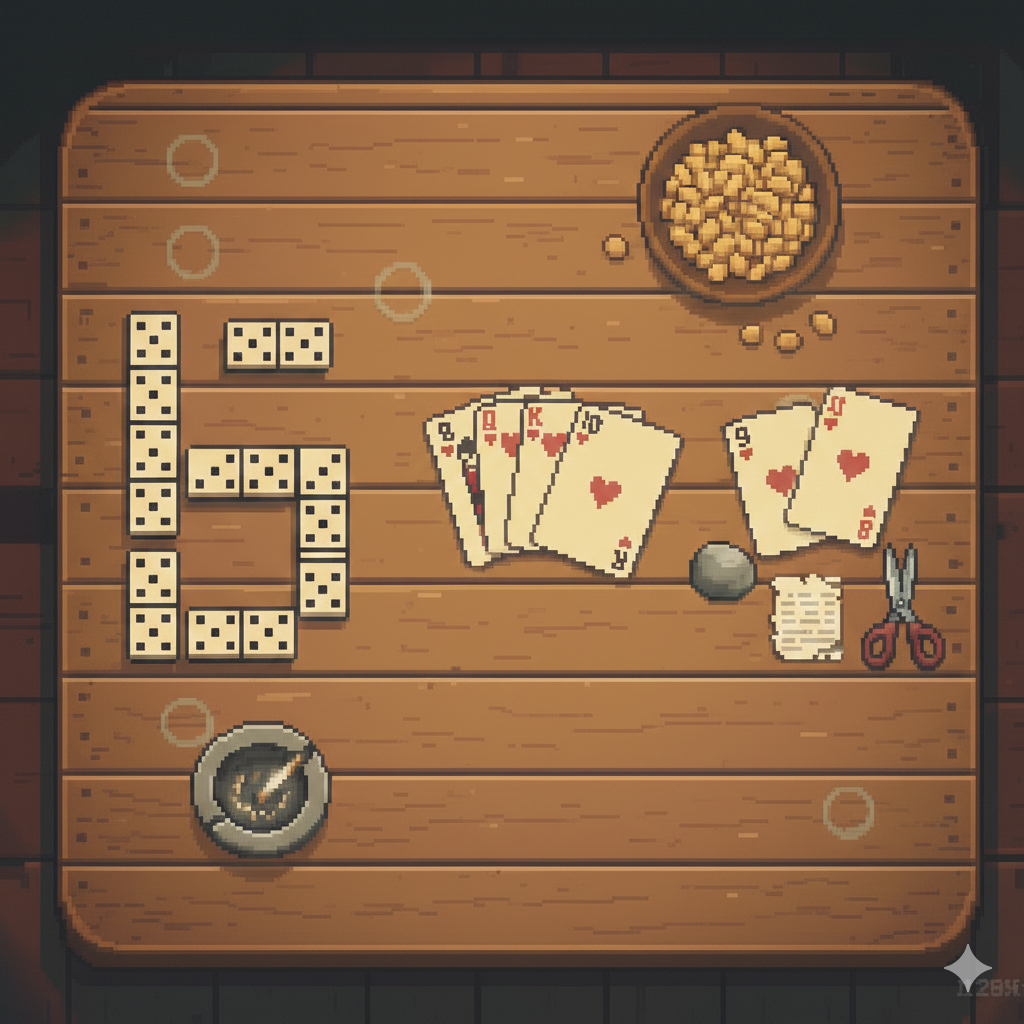
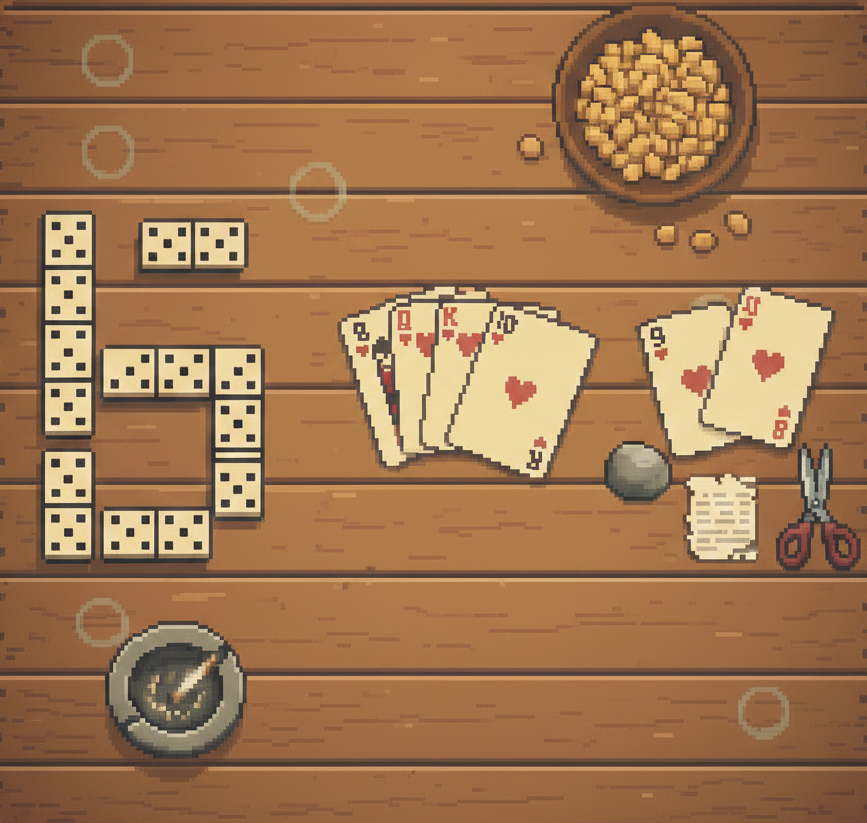
add polygons texture in menu scene

diff --git a/primitive.py b/primitive.py
@@ -1,3 +1,4 @@
+import pygame
 import numpy as np
 import math
 
@@ -10,7 +11,6 @@ class Primitive:
             self.surface.set_at((int(x), int(y)), color)
 
     def draw_line_bress(self, x0, y0, x1, y1, color=(255, 255, 255)):
-        # Flags para transformações
         step = abs(y1 - y0) > abs(x1 - x0)
         if step:
             x0, y0 = y0, x0
@@ -62,12 +62,18 @@ class Primitive:
         self.setPixel(xc - x, yc - y, color) # 8 Octante
 
     def draw_circunference_bress(self, xc, yc, radius, color=(255, 255, 255), color_fill=None, texture=None):
-        if color_fill is not None:
+        if color_fill is not None or texture is not None:
             points = []
-            for i in range(0, 360, 5): # Aproximação de 5 em 5 graus
+            for i in range(0, 360, 5):
                 rad = math.radians(i)
                 points.append((xc + radius * math.cos(rad), yc + radius * math.sin(rad)))
-            self.scanline_fill([(int(p[0]), int(p[1])) for p in points], color_fill)
+
+            if texture:
+                uvs = self._generate_uvs(points)
+                self.scaline_texture(points, uvs, texture)
+
+            elif color_fill:
+                self.scanline_fill([(int(p[0]), int(p[1])) for p in points], color_fill)
 
         x = 0
         y = radius
@@ -77,10 +83,10 @@ class Primitive:
 
         while (y > x):
             if (d < 0):
-                d+=2*x + 3
+                d += 2 * x + 3
             else:
-                d+=2*(x-y) + 5
-                y-=1
+                d += 2 * (x - y) + 5
+                y -= 1
             x+=1
             self._symmetry_circle(xc, yc, x, y, color)
 
@@ -91,57 +97,63 @@ class Primitive:
         self.setPixel(xc - x, yc - y, color)
 
     def draw_elipse(self, xc, yc, a, b, color=(255, 255, 255), color_fill=None, texture=None):
-        if color_fill is not None:
+        if color_fill is not None or texture is not None:
             points = []
             for i in range(0, 360, 5):
                 rad = math.radians(i)
                 points.append((xc + a * math.cos(rad), yc + b * math.sin(rad)))
-            self.scanline_fill([(int(p[0]), int(p[1])) for p in points], color_fill)
+            
+            if texture:
+                uvs = self._generate_uvs(points)
+                self.scaline_texture(points, uvs, texture)
+            
+            elif color_fill:
+                self.scanline_fill([(int(p[0]), int(p[1])) for p in points], color_fill)
 
         x = 0
         y = b
 
-        d1 = b*b - a*a*b + 0.25 * a*a
+        d1 = b * b - a * a * b + 0.25 * a * a
         self._ellipse_points(xc, yc, x, y, color)
 
         # Região 1
-        while (b*b * x) <= (a*a * y):
+        while (b * b * x) <= (a * a * y):
             if d1 < 0:
-                d1 += b*b * (2*x + 3)
+                d1 += b * b * (2 * x + 3)
                 x += 1
             else:
-                d1 += b*b * (2*x + 3) + a*a * (-2*y + 2)
+                d1 += b * b * (2 * x + 3) + a * a * (-2 * y + 2)
                 x += 1
                 y -= 1
             self._ellipse_points(xc, yc, x, y, color)
 
         # Região 2
-        d2 = (
-            b*b * (x + 0.5) * (x + 0.5) +
-            a*a * (y - 1) * (y - 1) -
-            a*a * b*b
-        )
+        d2 = (b * b * (x + 0.5) * (x + 0.5) + a * a * (y - 1) * (y - 1) - a * a * b * b)
 
         while y > 0:
             if d2 > 0:
-                d2 += a*a * (-2*y + 3)
+                d2 += a * a * (-2 * y + 3)
                 y -= 1
             else:
-                d2 += b*b * (2*x + 2) + a*a * (-2*y + 3)
+                d2 += b * b * (2 * x + 2) + a * a * (-2 * y + 3)
                 x += 1
                 y -= 1
             self._ellipse_points(xc, yc, x, y, color)
     
     def draw_rectangle(self, x, y, width, height, color=(255, 255, 255), color_fill=None, texture=None):
         points = [(x, y), (x + width, y), (x + width, y + height), (x, y + height)]
-        self.draw_polygon(points, color, color_fill)
+        self.draw_polygon(points, color, color_fill, texture)
 
     def draw_triangle(self, x0, y0, x1, y1, x2, y2, color=(255, 255, 255), color_fill=None, texture=None):
         points = [(x0, y0), (x1, y1), (x2, y2)]
-        self.draw_polygon(points, color, color_fill)
+        self.draw_polygon(points, color, color_fill, texture)
 
-    def draw_polygon(self, points, color=(255, 255, 255), color_fill=None, texture=None):
-        if color_fill is not None:
+    def draw_polygon(self, points, color=(255, 255, 255), color_fill=None, uvs=None, texture=None):
+        if texture is not None:
+            use_uvs = uvs if uvs is not None else self._generate_uvs(points)
+            self.scaline_texture(points, use_uvs, texture)
+
+        elif color_fill is not None:
             pts_int = [(int(p[0]), int(p[1])) for p in points]
             self.scanline_fill(pts_int, color_fill)
         
@@ -188,7 +200,8 @@ class Primitive:
                         self.setPixel(x, y, color_fill)
 
     def scaline_texture(self, points, uvs, texture):
-        tex_w, tex_h = texture.get_width(), texture.get_height()
+        tex = pygame.image.load(texture).convert()
+        tex_w, tex_h = tex.get_width(), tex.get_height()
         n = len(points)
 
         ys = [p[1] for p in points]
@@ -245,5 +258,17 @@ class Primitive:
                     ty = int(v * (tex_h - 1))
 
                     if 0 <= tx < tex_w and 0 <= ty < tex_h:
-                        cor = texture.get_at((tx, ty))
+                        cor = tex.get_at((tx, ty))
                         self.setPixel(x, y, cor)
+    
+    def _generate_uvs(self, points):
+        if not points: return []
+        xs = [p[0] for p in points]
+        ys = [p[1] for p in points]
+        x_min, x_max = min(xs), max(xs)
+        y_min, y_max = min(ys), max(ys)
+        
+        width = x_max - x_min if x_max != x_min else 1
+        height = y_max - y_min if y_max != y_min else 1
+        
+        return [((p[0] - x_min) / width, (p[1] - y_min) / height) for p in points]

diff --git a/menu.py b/menu.py
@@ -3,10 +3,11 @@ from primitive import Primitive
 from transform import Transform
 
 class Menu:
-    def __init__(self, surface, colors):
+    def __init__(self, surface, colors,  textures):
         self.surface = surface
         self.drawer = Primitive(self.surface)
         self.colors = colors
+        self.textures = textures
         self.selected_index = 0  
         self.options = ["Iniciar", "Sair"]
         self.button_width = 200
@@ -18,25 +19,29 @@ class Menu:
         self.scissors = [(-1, 5), (-10, 5), (-10, 15),(-1,20),(-10,20),(-10,40),(0,20),(10,40),(10,20),(1,20),(10,15),(10,5),(1,5),(0,20)]
         self.stone = [(10, -17), (20, 0), (10, 17), (-10, 17), (-20, 0), (-10, -17)]
 
+        self.uvs_stone = self.drawer._generate_uvs(self.stone)
+        self.uvs_paper = self.drawer._generate_uvs(self.paper)
+        self.uvs_scissors = self.drawer._generate_uvs(self.scissors)
+
     def draw(self):
         self.surface.fill(self.colors["black"])
         self.angle += 0.02
 
         background_shapes = [
             # Lado Esquerdo
-            (self.stone, (200, 200), self.colors["medium_gray"], 1),
-            (self.paper, (200, 550), self.colors["white"], -1),
+            (self.stone, (200, 200), None, 1, self.uvs_stone, self.textures["stone"]),
+            (self.paper, (200, 550), None, -1, self.uvs_paper, self.textures["paper"]),
             
             # Lado Direito
-            (self.scissors, (1080, 200), self.colors["red"], 1),
-            (self.stone, (1080, 550), self.colors["medium_gray"], -1),
+            (self.scissors, (1080, 200), self.colors["red"], 1, None, None),
+            (self.stone, (1080, 550), None, -1, self.uvs_stone, self.textures["stone"]),
             
             # Centro (Topo e Baixo)
-            (self.paper, (640, 100), self.colors["white"], 1),
-            (self.scissors, (640, 600), self.colors["red"], -1)
+            (self.paper, (640, 100), None, 1, self.uvs_paper, self.textures["paper"]),
+            (self.scissors, (640, 600), self.colors["red"], -1, None, None)
         ]
 
-        for model_points, pos, fill_color, direction in background_shapes:
+        for model_points, pos, fill_color, direction, uvs, tex in background_shapes:
             m = Transform.create_transformation()
             
             m = Transform.multiply_matrices(Transform.scale(4, 4), m)
@@ -44,7 +49,7 @@ class Menu:
             m = Transform.multiply_matrices(Transform.translation(pos[0], pos[1]), m)
             
             transformed_pts = Transform.apply_transformation(m, model_points)
-            self.drawer.draw_polygon(transformed_pts, self.colors["black"], fill_color)
+            self.drawer.draw_polygon(transformed_pts, self.colors["black"], fill_color, uvs, tex)
             
         self._draw_ui()
 

diff --git a/main.py b/main.py
@@ -31,7 +31,7 @@ class App:
         self._display_surf = pygame.display.set_mode(self.size, pygame.HWSURFACE | pygame.DOUBLEBUF)
         self.drawer = Primitive(self._display_surf)
 
-        self.menu = Menu(self._display_surf, self.colors)
+        self.menu = Menu(self._display_surf, self.colors, self.textures)
 
         opening = OpenScene(self._display_surf, self.colors)
         self._display_surf.fill(self.colors["black"]) 
@@ -164,8 +164,8 @@ class App:
         except:
             self.textures = {
                 "table": "img/table.png",
-                "stone": "img/",
-                "paper": "img/"
+                "stone": "img/stone.png",
+                "paper": "img/paper.jpg"
             }
 
     def load_colors(self):

diff --git a/entity.py b/entity.py
@@ -119,7 +119,6 @@ class Entity:
         
         # 2. Aplicar transformação para o espaço do mundo
         pts_trans = Transform.apply_transformation(m, self.model)
-        pts_int = [(int(p[0]), int(p[1])) for p in pts_trans]
         
         # 3. Desenhar na tela principal
         drawer.draw_polygon(pts_trans, self.colors["black"], self.color)
